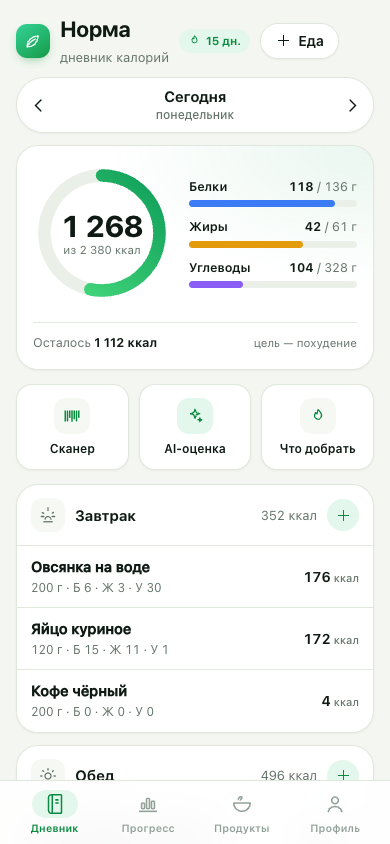
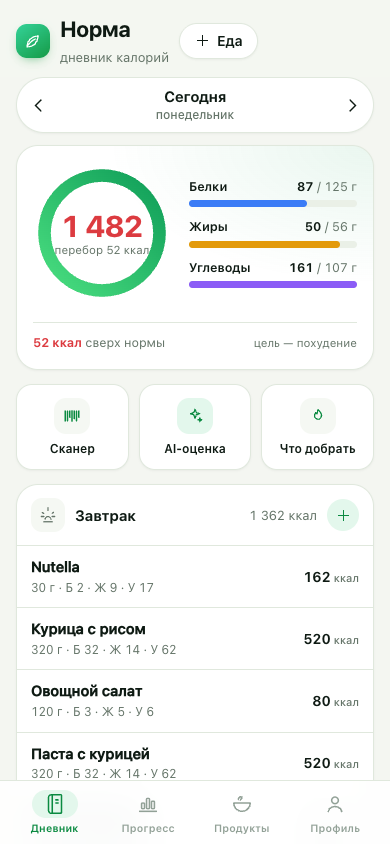
AI: отключаем thinking только для gemini-2.5-flash

diff --git a/js/ai.js b/js/ai.js
@@ -138,7 +138,7 @@ async function callGemini({ parts, schema, temperature = 0.2, maxTokens = 1024 }
             maxOutputTokens: maxTokens,
             responseMimeType: 'application/json',
             responseSchema: schema,
-            ...(/^gemini-2\.5/.test(modelName()) ? { thinkingConfig: { thinkingBudget: 0 } } : {}),
+            ...(/^gemini-2\.5-flash/.test(modelName()) ? { thinkingConfig: { thinkingBudget: 0 } } : {}),
           },
         }),
         signal: controller.signal,
